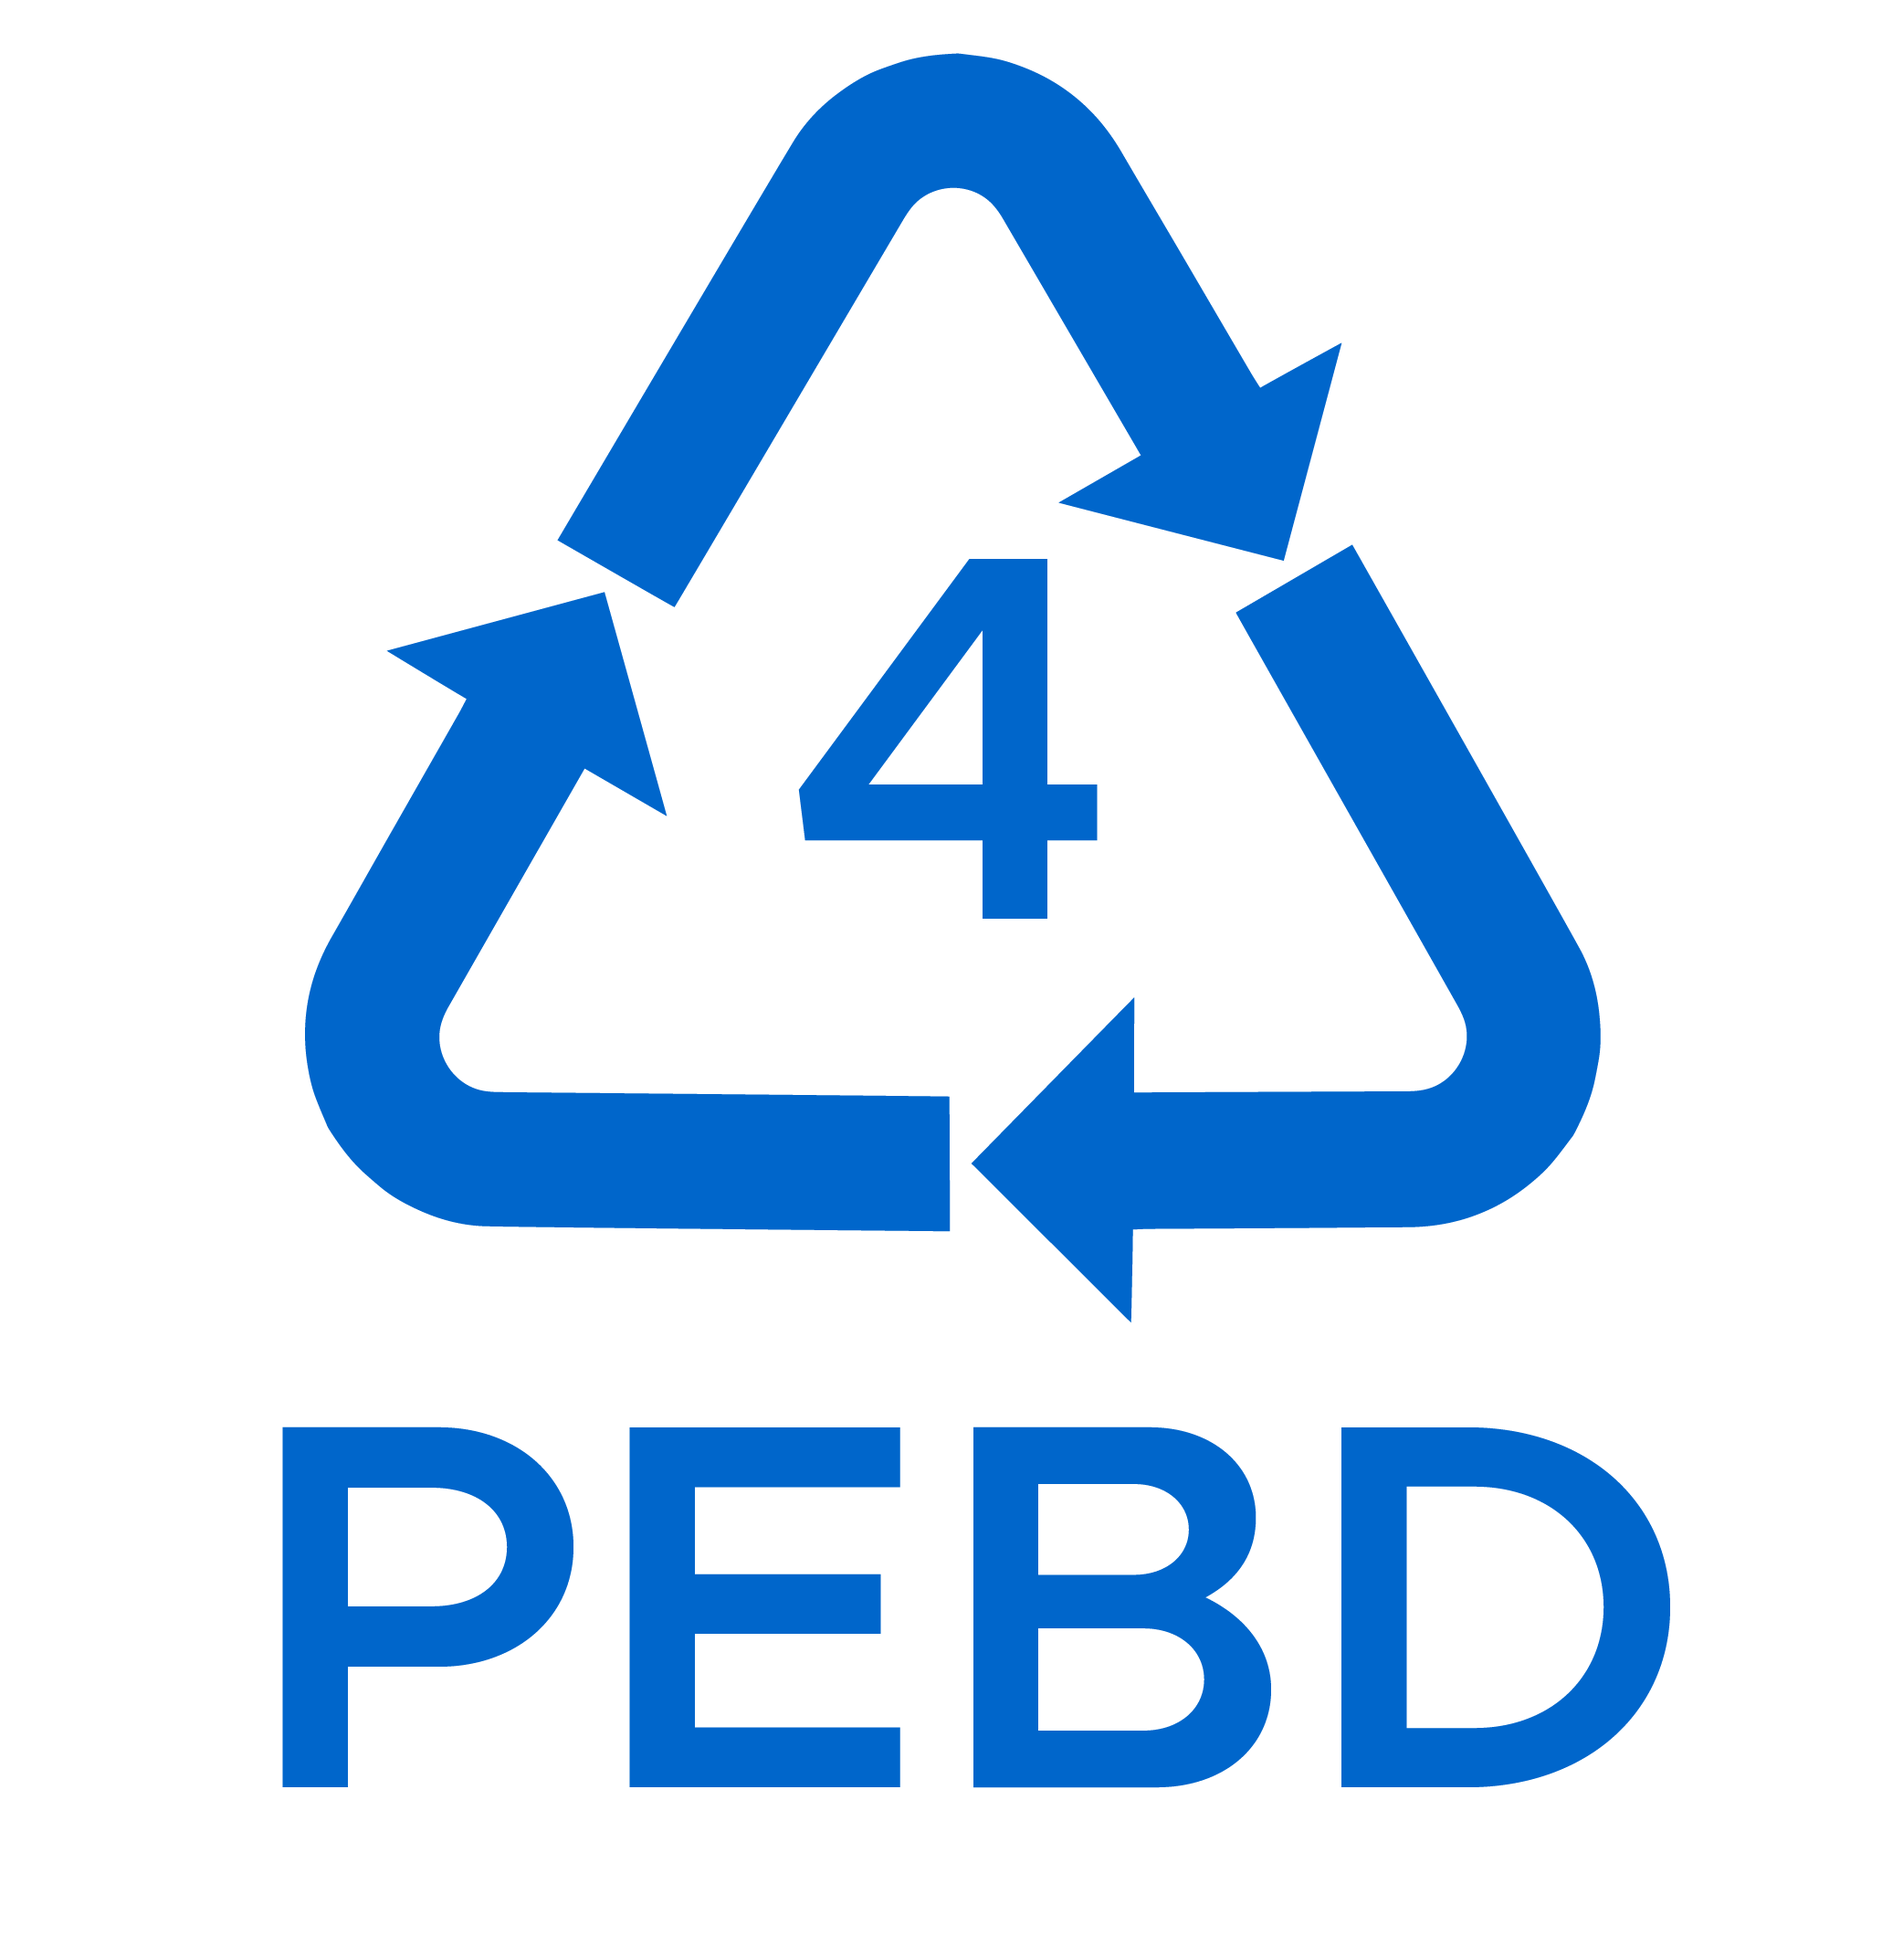
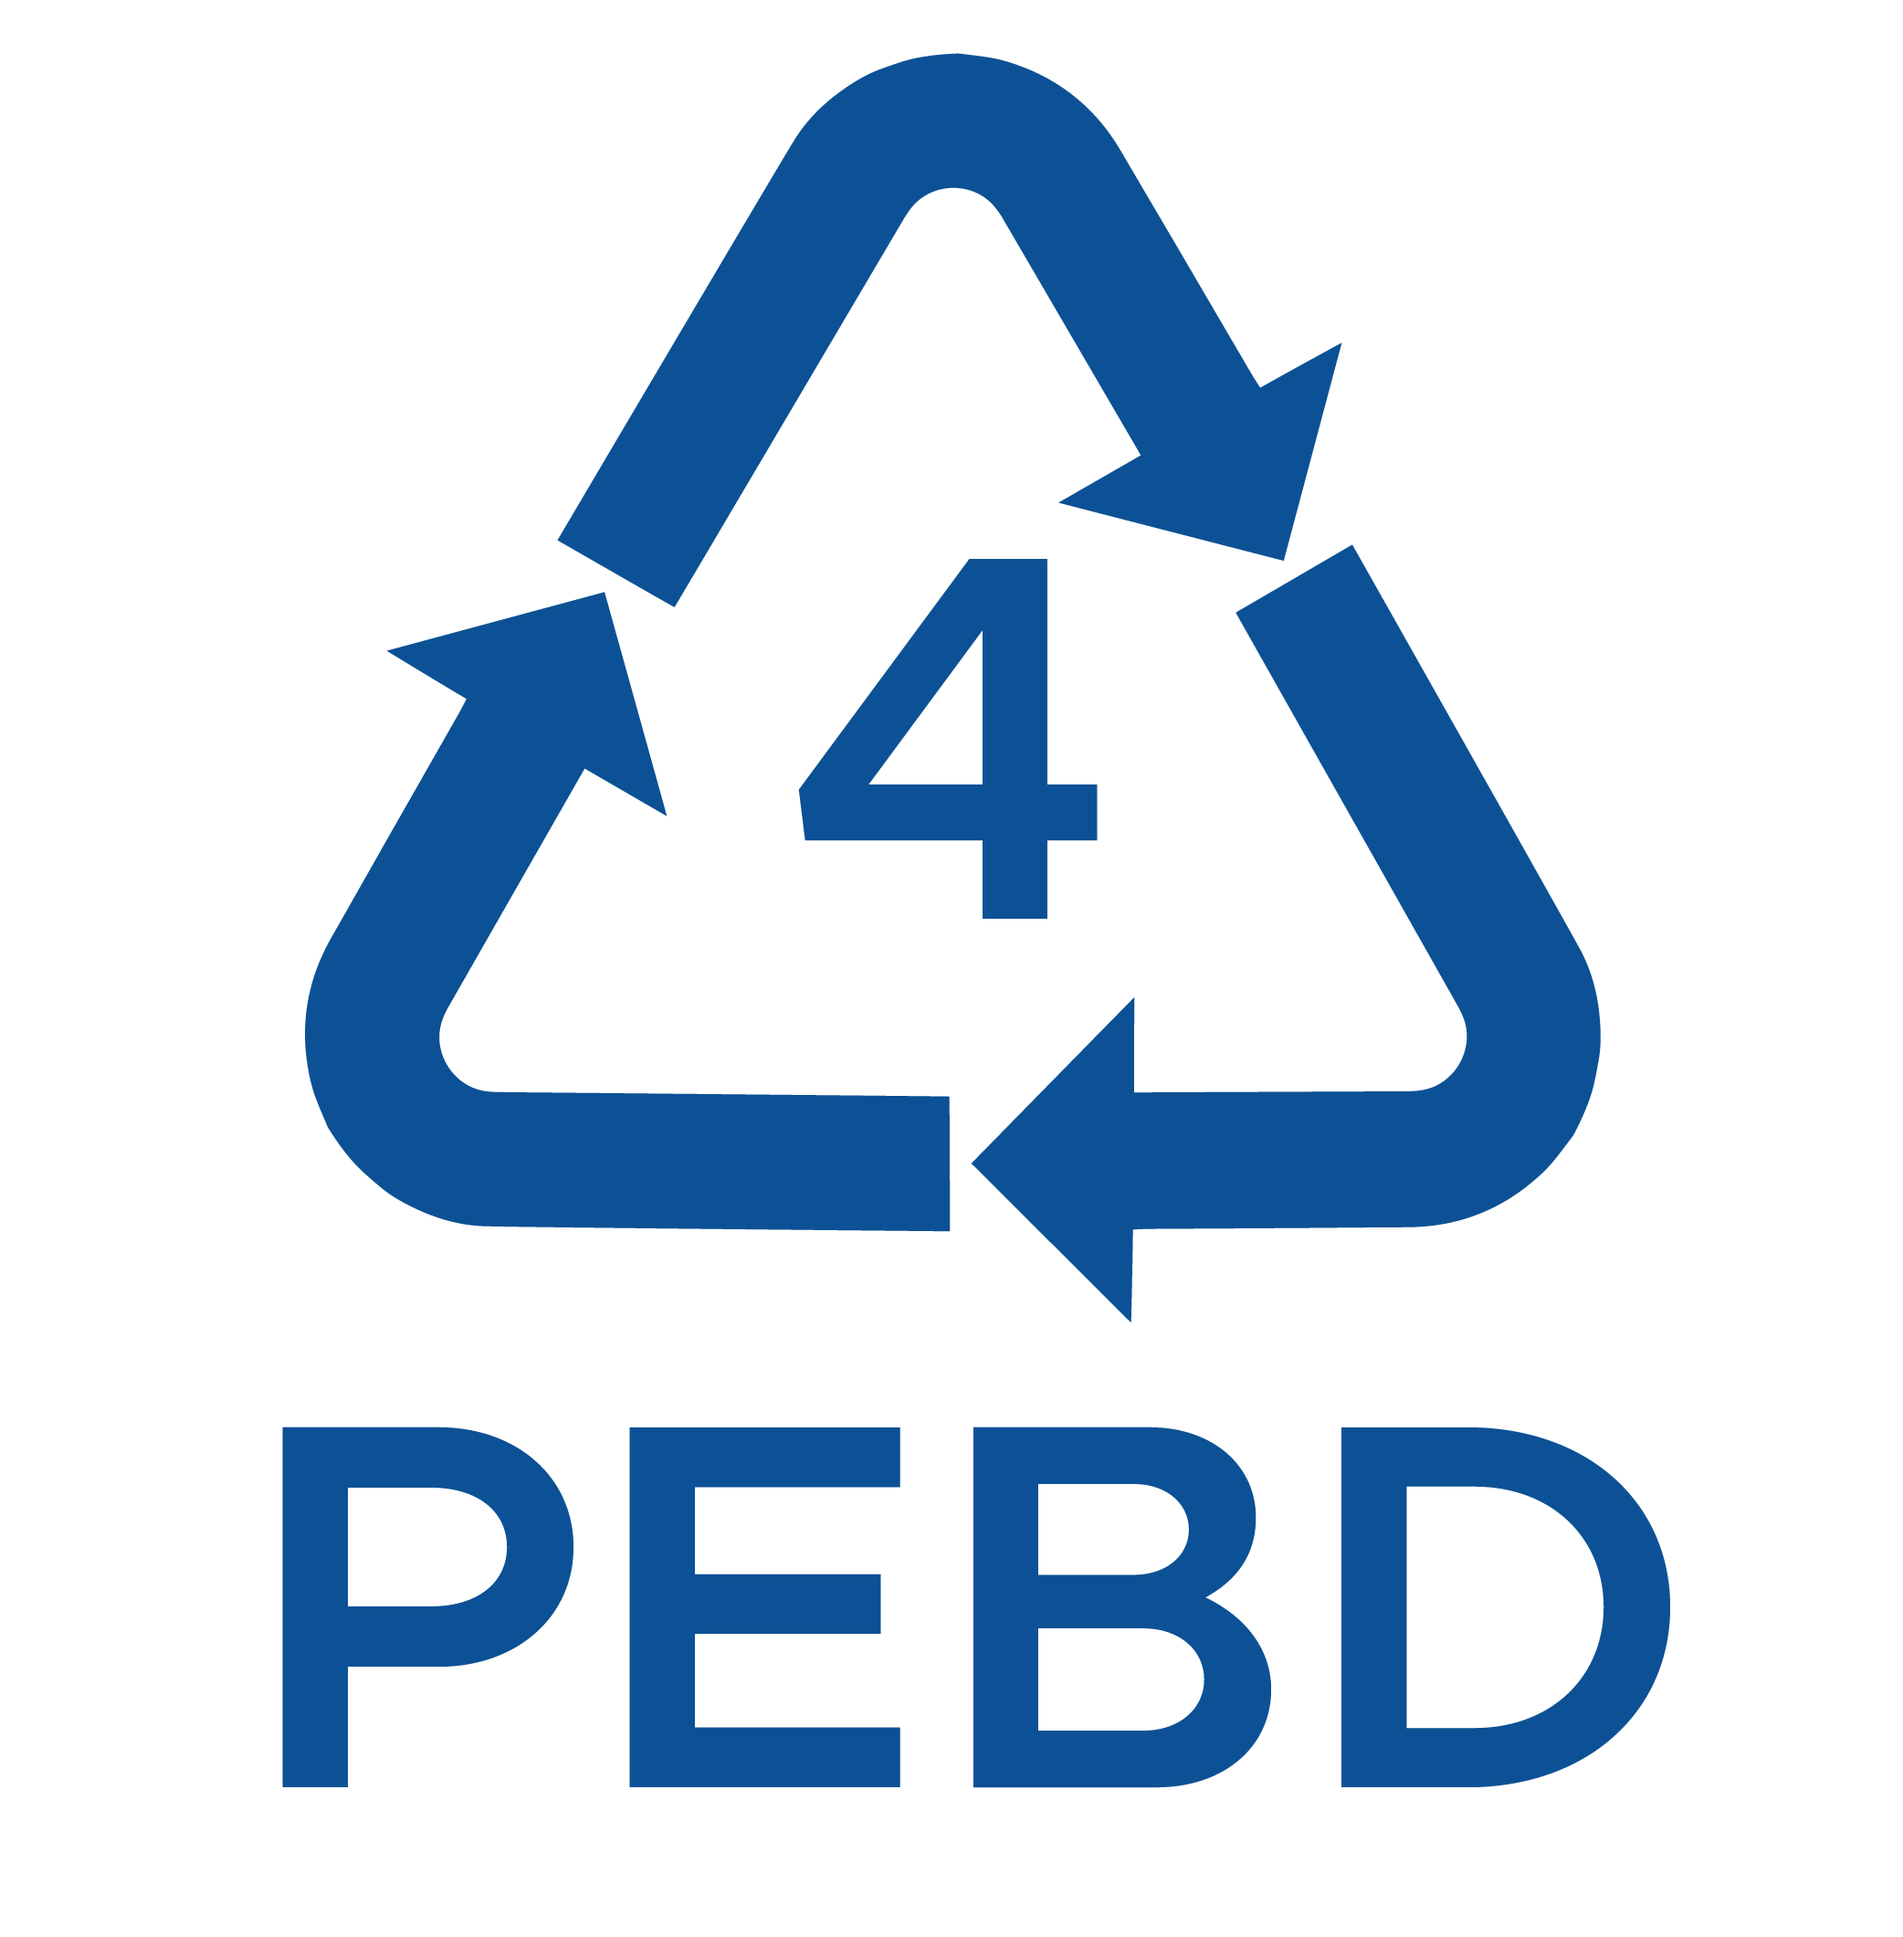
mudei as cores ig

Changed region(s): [[0.156, 0.0311, 0.8421, 0.6846], [0.1248, 0.7157, 0.9045, 0.9335], [0.4055, 0.2801, 0.5926, 0.4979]]

diff --git a/styles/styles.css b/styles/styles.css
@@ -8,16 +8,20 @@
     text-decoration: none;
     z-index: 4;
 }
-body{
+
+body {
     overflow-x: hidden;
 }
+
 a {
     color: white;
 }
-h1{
+
+h1 {
     font-size: 2rem;
 
 }
+
 h2 {
     font-size: 1.6rem;
 }
@@ -65,47 +69,54 @@ h2 {
     align-items: center;
     justify-content: space-between;
     width: 64vw;
-    margin:0 auto;
+    margin: 0 auto;
 }
-#illustration-ground{
+
+#illustration-ground {
     position: absolute;
     right: 0;
     bottom: 20%;
-    width:75%;
+    width: 75%;
     height: 35%;
     z-index: 2;
 }
-#illustration-white{
+
+#illustration-white {
     position: absolute;
     left: 0;
     top: 0;
-    width:70%;
+    width: 70%;
     height: 100%;
     z-index: 1;
 }
-#hero-text-container{
+
+#hero-text-container {
     display: grid;
-    gap:0.3rem;
+    gap: 0.3rem;
     padding: 0 0 2rem 0;
 
 }
-#hero-elements{
+
+#hero-elements {
     z-index: 3;
 }
-#hero-elements p{
+
+#hero-elements p {
     text-align: left;
 
 }
-.hero-text{
+
+.hero-text {
     font-size: calc(0.8rem + 1.5vw);
 
 }
-#hero-bold{
+
+#hero-bold {
     font-size: calc(1rem + 3vw);
 }
 
-#hero-elements > button {
-    font-size: calc(0.4rem + 1vw);
+#hero-elements>button {
+    font-size: calc(0.7rem + 1vw);
     color: white;
     border: none;
     padding: 1vw 1.5vw;
@@ -114,23 +125,27 @@ h2 {
     transition: 0.3s;
     transform: scale(1);
 }
-#hero-elements > button:hover{
+
+#hero-elements>button:hover {
     transition: 0.3s;
     transform: scale(1.06);
     background-color: var(--color-azul-medio);
 }
-#hero-illustration{
-    transform: scale(1.0);
-    transition: 0.5s;
-    width:calc(8rem + 20vw);
+
+#hero-illustration {
+    transform: scale(1);
+    transition: 0.3s;
+    width: calc(8rem + 20vw);
     z-index: 3;
 }
-#hero-illustration:hover{
+
+#hero-illustration:hover {
     transform: scale(1.1);
-    transition: 0.5s;
+    transition: 0.3s;
 
 }
-#plastic-types-container{
+
+#plastic-types-container {
     display: flex;
     justify-content: space-between;
     width: 64%;
@@ -138,29 +153,34 @@ h2 {
     margin: 0 auto;
 
 }
+
 @media (max-width:800px) {
-    #plastic-types-container{
+    #plastic-types-container {
         width: 90%;
         margin: 0 auto;
-    
+
     }
 }
-#plastic-types-container > *{
-    padding:0.1vw;
+
+#plastic-types-container>* {
+    padding: 0.1vw;
     height: fit-content;
     text-align: center;
 }
-#plastic-types-container > *>img{
+
+#plastic-types-container>*>img {
     width: calc(3rem + 3vw);
 }
-.plastic-type-unselected{
-    transition: 0.5s;
+
+.plastic-type-unselected {
+    transition: 0.3s;
     transform: scale(0.7);
     opacity: 0.5;
     cursor: pointer;
 }
-.plastic-type-unselected:hover{
-    transition: 0.5s;
+
+.plastic-type-unselected:hover {
+    transition: 0.3s;
     transform: scale(0.8);
     opacity: 0.8;
 
@@ -172,8 +192,9 @@ h2 {
     padding: 0 18vw;
     background-color: #FFFFFF;
 }
-.content-wrapper > *:not(:first-child) {
-    margin:1rem 0;
+
+.content-wrapper>*:not(:first-child) {
+    margin: 1rem 0;
 }
 
 header {
@@ -181,10 +202,10 @@ header {
     justify-content: space-between;
 }
 
-header > h1 {
+header>h1 {
     display: inline-block;
 }
 
-header > h2 {
+header>h2 {
     display: inline-block;
 }

diff --git a/styles/colors.css b/styles/colors.css
@@ -1,6 +1,5 @@
 body{
     --color-azul: #0066CB;
-    --color-azul2: #0C5195;
     --color-black: #131A22;
     --color-azul-medio: #0B3C6D;
     --color-azul-claro: #80B3E5
@@ -8,7 +7,6 @@ body{
 .txt-color-azul{
     color: #0066CB;
 }
-
 .txt-color-azul2{
     color: #0C5195;
 }
